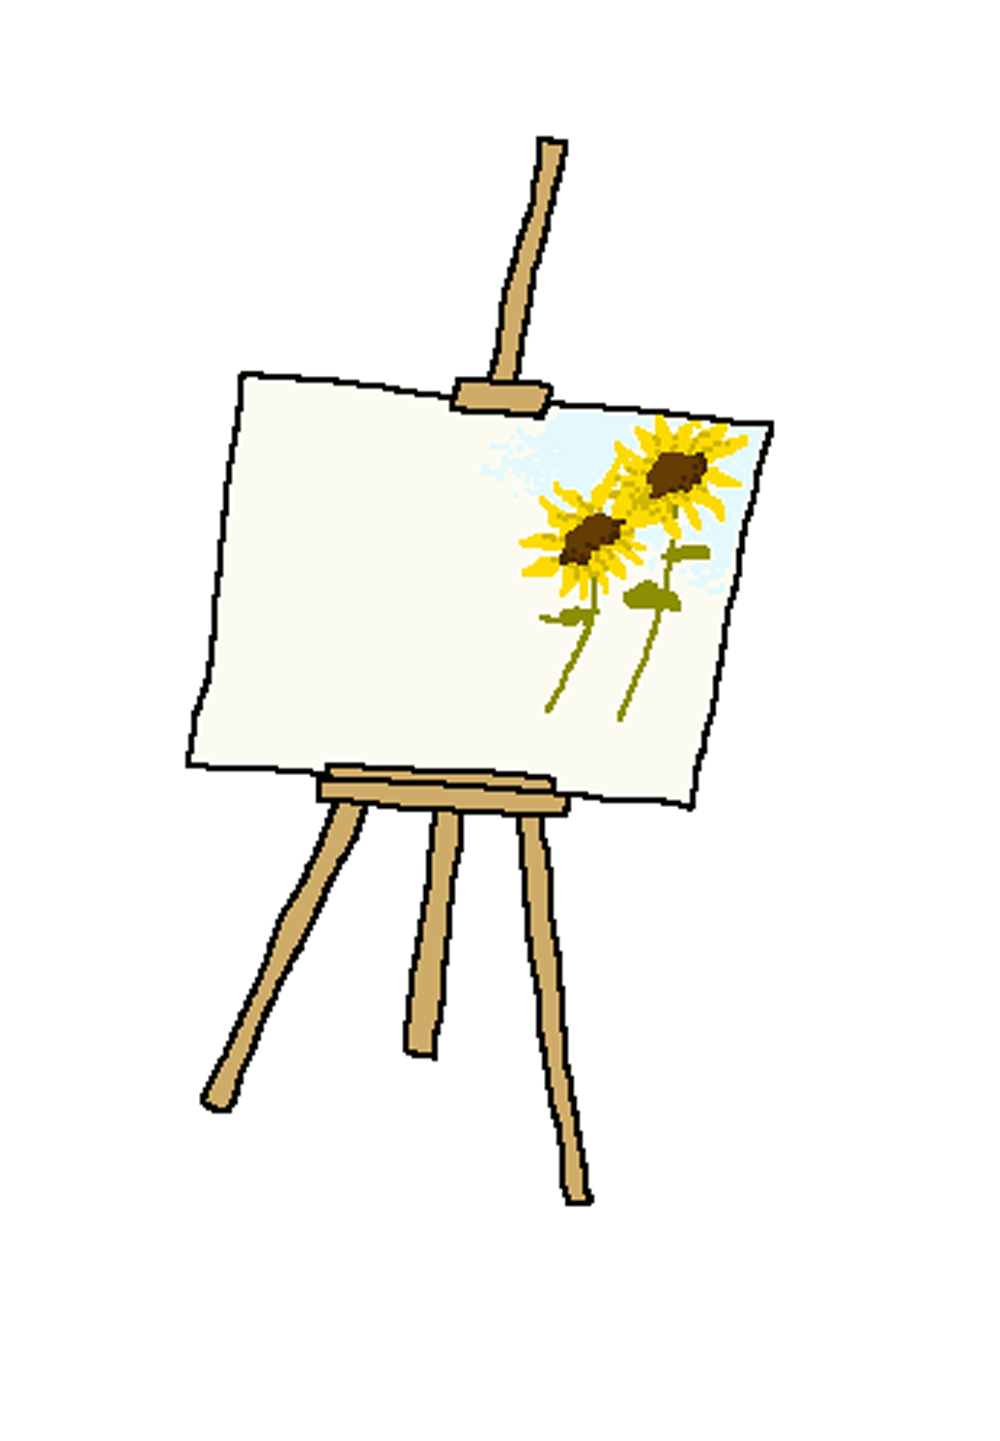
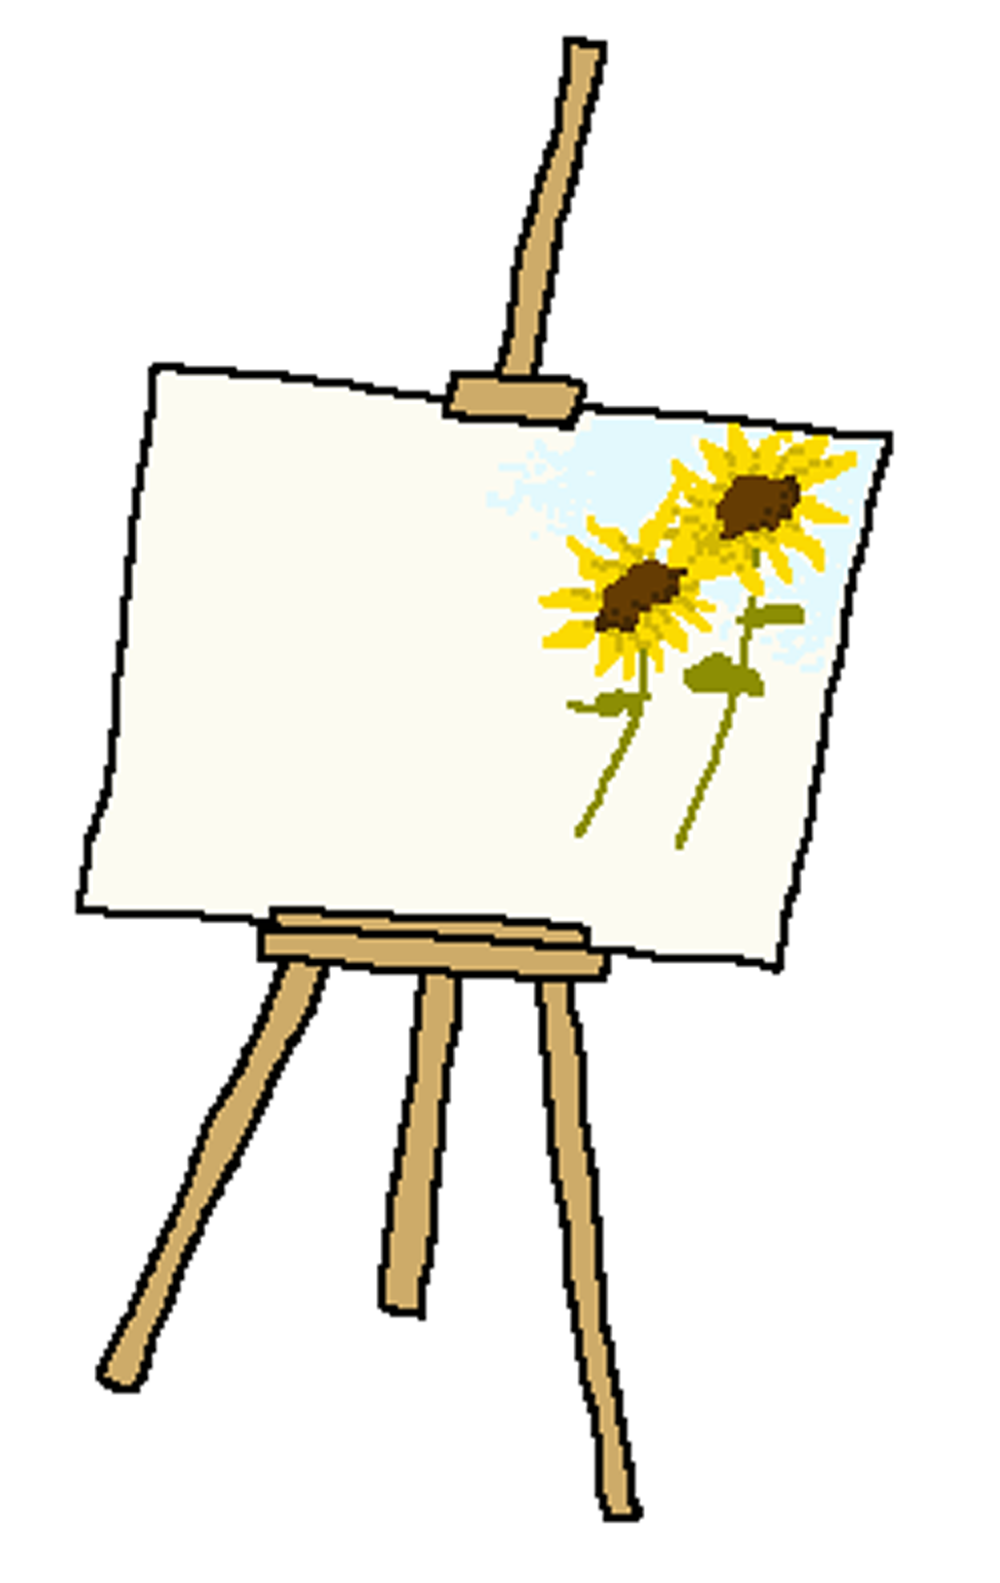
zentriertes hintergrundbild

Changed region(s): [[0.062, 0.0, 0.899, 0.9681]]

diff --git a/index.html b/index.html
@@ -6,21 +6,23 @@
     <link href="css/stylesheet.css" rel="stylesheet" type="text/css" media="screen">
   </head>
   <body>
-<div class="hintergrund">
-  <img src="images/startseite/startseite_webseite.jpg" alt="hintergund">
-</div>
+    <div class="hintergrund">
+          <img class="hintergrund" src="images/startseite/startseite_webseite.jpg" height="100%" alt="hintergrund">
+    </div>
 
-<div class="content">
-  <figure class="kontakt">
-      <img src="images/startseite/startseite_kontakt.png" width="100%" alt="papierflieger">
-      <figcaption>Kontakt</figcaption>
-  </figure>
 
-  <figure class="sonstiges">
-      <img src="images/startseite/startseite_sonstiges.png" width="100%" alt="kiste">
-      <figcaption>Sonstiges</figcaption>
-  </figure>
 
-</div>
+  <!--  <div class="content">
+      <figure class="kontakt">
+          <img src="images/startseite/startseite_kontakt.png" width="100%" alt="papierflieger">
+          <figcaption>Kontakt</figcaption>
+      </figure>
+
+      <figure class="sonstiges">
+          <img src="images/startseite/startseite_sonstiges.png" width="100%" alt="kiste">
+          <figcaption>Sonstiges</figcaption>
+      </figure>
+
+    </div> -->
   </body>
 </html>

diff --git a/css/stylesheet.css b/css/stylesheet.css
@@ -2,19 +2,30 @@
   box-sizing: border-box;
 }
 
+html, body {
+  margin:0;
+  padding:0;
+  width:100%;
+  height:100%;
+  overflow:hidden;
+}
+
 body{
   background: rgb(159, 181, 187);
 }
 
 
 .hintergrund{
-  position: absolute;
+  display: block;
+  /*position: absolute;
+  z-index: 1;*/
+  margin-top: 0;
   margin-left: auto;
   margin-right: auto;
-  height: 100%;
-  z-index: 1;
+  height:100%;
+  width: auto;
 }
-
+/*
 .content{
   z-index: 2;
   position: absolute;
@@ -22,14 +33,14 @@ body{
 }
 
 .kontakt{
-  width: 10%;
+  width: 5%;
   margin-top: 50px;
   margin-left: 300px;
   float: left;
 }
 
 .sonstiges{
-  width: 14%;
+  width: 10%;
   margin-top: 0;
   margin-right: 130px;
   float: right;
@@ -42,6 +53,7 @@ figcaption {
   text-align: center;
   font-size: 10pt;
   font-family: sans-serif;
+  background-color: rgb(213, 233, 239, 0.5)
 }
 
 figure:hover figcaption {
